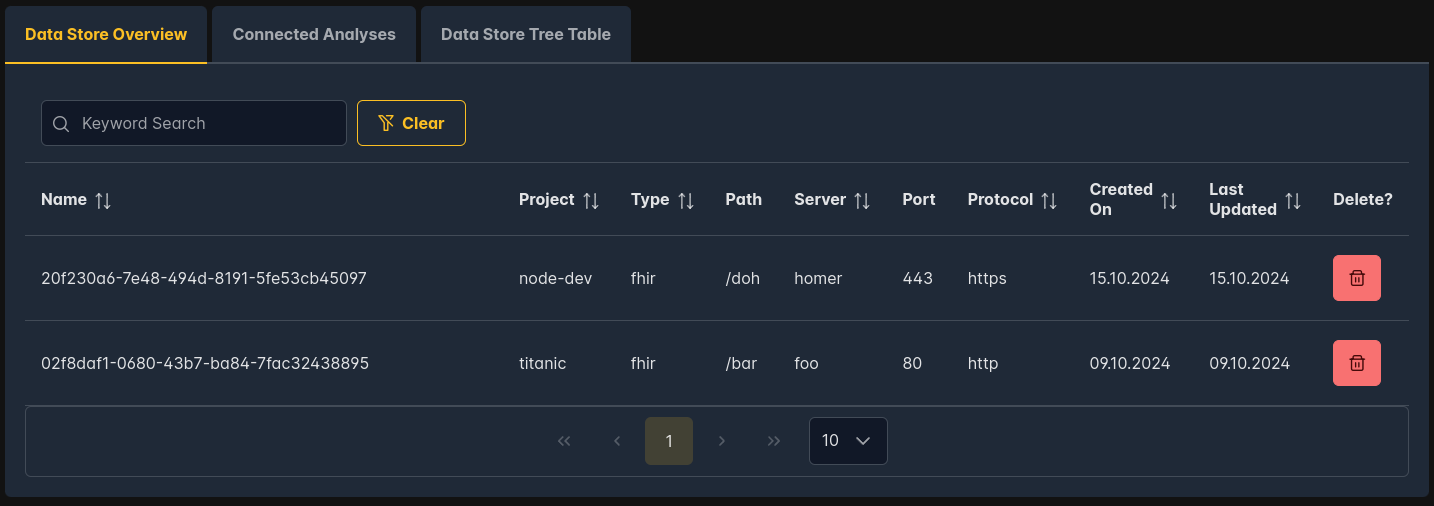
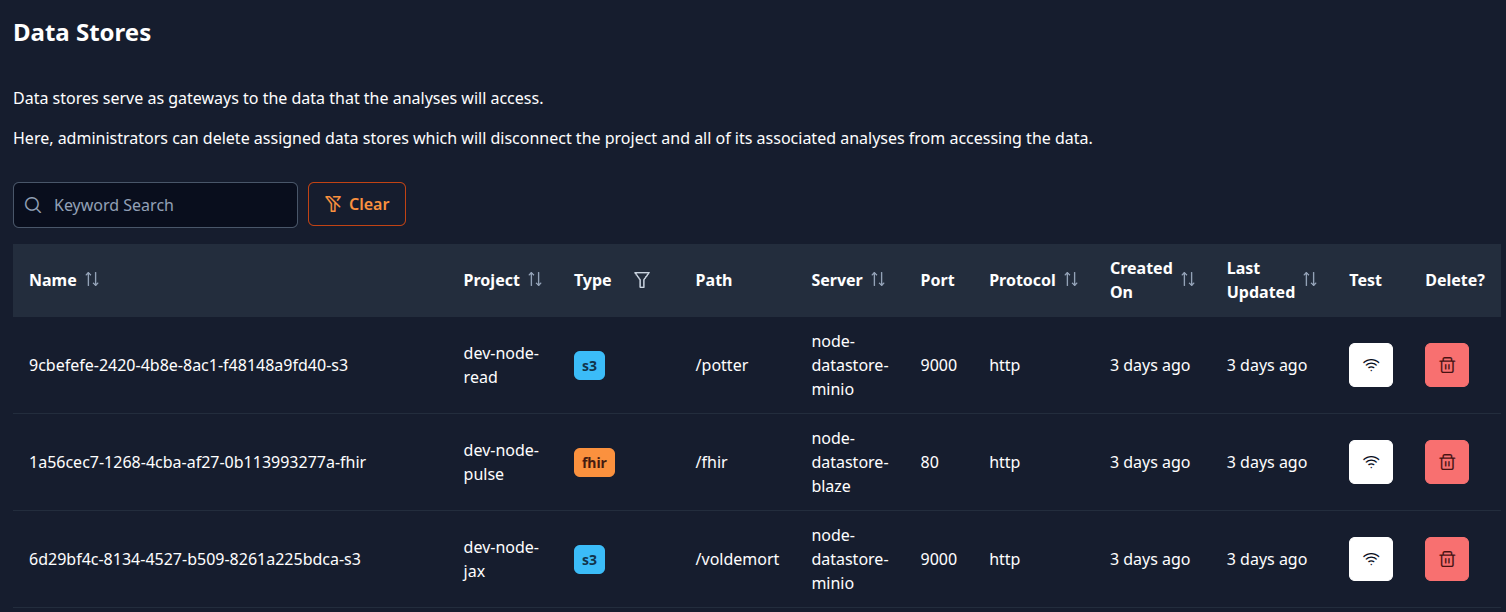
Merge pull request #98 from PrivateAIM/private-buckets
Private data store buckets

Pull request: Private data store buckets
<!-- This is an auto-generated comment: release notes by coderabbit.ai -->

## Summary by CodeRabbit

* **Documentation**
  * Updated admin guides for analysis execution, review, and data store management with improved terminology and clarity.
  * Revised bucket setup documentation to use credential-based private access instead of public bucket access.
  * Updated data store configuration field names from "Server/Data Path" to "Hostname/Bucket Name/Access Key/Secret Key."
  * Changed data store creation UI feedback color scheme (blue to green for success).
  * Corrected grammatical inconsistencies throughout user and deployment guides.

<!-- end of auto-generated comment: release notes by coderabbit.ai -->

diff --git a/src/guide/admin/bucket-setup-for-data-store.md b/src/guide/admin/bucket-setup-for-data-store.md
@@ -1,44 +1,123 @@
-# Bucket Setup for Data Store 
+# Bucket Setup for Data Store
 
-Before an analysis can be executed in FLAME, the required data must be made accessible through a configured data store. 
-In this context, a bucket refers to a storage location—such as an S3 or MinIO bucket—that contains the dataset to be analyzed.
-Creating a bucket is the first step in making data available to FLAME. 
-The bucket will later be referenced by a data store configuration, which connects the FLAME project to the actual data. 
+Before an analysis can be executed in FLAME, the required data must be made accessible through a configured data store.
+In this context, a bucket refers to a storage location—such as an S3 or MinIO bucket—that contains the dataset to be
+analyzed.
+Creating a bucket is the first step in making data available to FLAME.
+The bucket will later be referenced by a data store configuration, which connects the FLAME project to the actual data.
+
+The examples shown below use the included MinIO object store, but these steps can be applied to other S3 stores.
+
+::: info FLAME Node <0.0.10
+As of flame-node v0.0.10, private buckets are supported and are set as the default. If you have flame-node <0.0.10 
+deployed, consider upgrading to the latest version, otherwise, only S3 buckets set to "Public" will work and any 
+instructions on this page mentioning "keys" are not applicable.
+:::
 
 ## Creating a Bucket
 
-To create a new bucket, go to the "Buckets" tab in the Administrator Area on the left side of the page and click "Create Bucket".
-Give your bucket a name following the bucket naming rules, optionally select additional features, and click "Create Bucket" in the lower-right corner under the Features section.
+To create a new bucket, go to the "Buckets" tab in the Administrator Area on the left side of the page and click "Create
+Bucket".
+Give your bucket a name following the bucket naming rules, optionally select additional features, and click "Create
+Bucket" in the lower-right corner under the Features section.
 
 [![Data Store Creator](/images/minio_images/bucket_create.png)](/images/minio_images/bucket_create.png)
 
-To enable FLAME Nodes to access the data during development, the access policy of the newly created bucket must temporarily be set to "Public" in the summary tab. This setting is only required during the development phase and should be adjusted accordingly in production environments.
+### Generating Access and Secret Keys
+
+By default, S3 buckets are set to "Private", and accessing the data they contain requires the use of an **access key**
+and **secret key**. These keys are also required when creating a data store in the Node UI for this bucket. In MinIO,
+administrators and data stewards can generate a key pair by following these steps:
+
+1. Navigate to the "Access Keys" tab in the Administrator Area on the left side of the page
+2. Click the "Create access key" button in the top right corner of the page
+3. Enter any desired metadata including a name and expiration date for the keys
+    * It is recommended you enable the "Restrict beyond user policy" toggle and further limit the access key
+      permissions. More details can be found in [Modifying Access Key Permissions](#modifying-access-key-permissions)
+4. Click the "Create" button at the bottom
+
+::: warning Save the Keys!
+The secret key is **only** accessible during creation so it is important you record both keys now as you will need
+them when creating a data store
+:::
+
+[![MinIO Access Key Generation](/images/minio_images/access_key_creation.png)](/images/minio_images/access_key_creation.png)
+
+#### Modifying Access Key Permissions
+
+Access keys have the same policies as the user who created them by default, however, it is advisable to limit the
+permissions of the access keys used for data store creation. FLAME analyses only require the following permissions:
+
+* Bucket
+    * `s3:GetBucketLocation`
+    * `s3:ListBucket`
+* Data
+    * `s3:GetObject`
+
+Thus, administrators and data stewards can use the following custom **Access Key Policy** (replacing `<bucket name>`
+with the name of the appropriate bucket) for additional security:
+
+```json
+{
+    "Version": "2012-10-17",
+    "Statement": [
+        {
+            "Effect": "Allow",
+            "Action": [
+                "s3:GetBucketLocation",
+                "s3:ListBucket"
+            ],
+            "Resource": [
+                "arn:aws:s3:::<bucket name>"
+            ]
+        },
+        {
+            "Effect": "Allow",
+            "Action": [
+                "s3:GetObject"
+            ],
+            "Resource": [
+                "arn:aws:s3:::<bucket name>/*"
+            ]
+        }
+    ]
+}
+```
+
+This policy can be applied either during access key creation or afterward by editing the access key settings.
 
 ### Uploading Data into a Bucket
 
-To upload files or a directory into a bucket, navigate to "Object Browser" in the User Area and select the desired bucket.
-Click the "Upload" button in the top-right corner and choose either "Upload File" or "Upload Folder". You can then select a file or folder from your local computer to upload.
+To upload files or a directory into a bucket, navigate to "Object Browser" in the User Area and select the desired
+bucket.
+Click the "Upload" button in the top-right corner and choose either "Upload File" or "Upload Folder". You can then
+select a file or folder from your local computer to upload.
 
 [![Data Store Creator](/images/minio_images/bucket_upload.png)](/images/minio_images/bucket_upload.png)
 
-If the upload starts successfully, a "Downloads/Uploads" tab will appear in the top-right corner, displaying the upload progress as a percentage.
+If the upload starts successfully, a "Downloads/Uploads" tab will appear in the top-right corner, displaying the upload
+progress as a percentage.
 
 ### Deleting a Bucket
 
-A bucket can only be deleted after all its contents have been removed. To do this, go to the "Buckets" tab in the Administrator Area, select the bucket you want to delete, and then click the "Delete Bucket" button in the top-right corner.
+A bucket can only be deleted after all its contents have been removed. To do this, go to the "Buckets" tab in the
+Administrator Area, select the bucket you want to delete, and then click the "Delete Bucket" button in the top-right
+corner.
 
-## Integrate a Bucket in the Node 
+## Integrate a Bucket in the Node
 
-To make data from a bucket available for analysis within FLAME, a corresponding data store must be created for the project that intends to use the data.
+To make data from a bucket available for analysis within FLAME, a corresponding data store must be created for the
+project that intends to use the data.
 
-This process is explained in detail in the [Creating a Data Store](/guide/admin/data-store-management#creating-a-data-store) section. When configuring a data store for a MinIO or S3 bucket, the following parameters must be provided:
+This process is explained in detail in
+the [Creating a Data Store](/guide/admin/data-store-management#creating-a-data-store) section. When configuring a data
+store for a MinIO or S3 bucket, the following parameters must be provided:
 
 [![Data Store Creator](/images/minio_images/bucket_node.png)](/images/minio_images/bucket_node.png)
 
-* **Server:**  `node-datastore-minio`
-
-* **Data Path:** `/` followed by the bucket name (e.g., `/hello-world`)
-
 * **Data Store Type:** `S3`
-
+* **Hostname:**  `node-datastore-minio`
+* **Bucket Name:** `<bucket name>`
+* **Access Key:** Generated access key for the listed, private S3 bucket
+* **Secret Key:** Generated secret key for the listed, private S3 bucket
 * **Port:** `9000`

diff --git a/src/guide/admin/data-store-management.md b/src/guide/admin/data-store-management.md
@@ -1,62 +1,69 @@
 # Data Store Management
 
-Before an analysis can be run, its associated project must be allowed to access the required data at the institution. 
-To achieve this, administrators can create **data stores**. These are the configuration settings that map individual 
-projects to the directories containing the requested data on the organization's servers.
+Before an analysis can be run, its associated project must be allowed to access the required data at the institution.
+To achieve this, either an administrator or data steward needs to create **data stores**.
+These are the configuration settings that map individual projects to the directories containing the requested data
+on the organization's servers.
 
 ## Creating a Data Store
-Navigate to the Data Store Creation tool by clicking on "Data Stores" -> "Create" in the menu bar at the top of the 
+
+Navigate to the Data Store Creation tool by clicking on "Data Stores" -> "Create" in the menu bar at the top of the
 page. You should see a partially filled out table:
 
 [![Data Store Creator](/images/node_ui_images/data_store_creator.png)](/images/node_ui_images/data_store_creator.png)
 
-Simply fill out the required information in the table and click "Submit" under the table. If everything worked 
-correctly, a blue box will appear in the top right of the page indicating a data store was successfully created. If 
-not, then please verify the provided values in tables or contact support for help.
+Simply fill out the required information in the table and click "Submit" under the table. If everything worked
+correctly, a green box will appear in the top right of the page indicating a data store was successfully created. If
+not, a red box will appear with a suggestion as to what may be wrong. If this occurs, please verify the provided
+values in the table or contact support for help.
+
+::: tip Private S3 Buckets
+For more information on how to generate the required keys for private S3 buckets, visit
+[Bucket Setup for Data Store](./bucket-setup-for-data-store.md)
+:::
 
 A description of the fields in the table can be found below.
 
 ### Field Descriptions
-| **Field**       | **Description**                                                                                                                                                             |
-|-----------------|-----------------------------------------------------------------------------------------------------------------------------------------------------------------------------|
-| Project         | Select from the currently approved list of projects for your node                                                                                                           |
-| Data Store      | This field is automatically populated using the UUID of the selected project. This identifier is used as the name of the data store when it is created in the node software |
-| Server          | Name of the server on which the data is located                                                                                                                             |
-| Data Path       | The absolute directory path where the requested data is located                                                                                                             |
-| Data Store Type | Type of repository in which the data is stored. Currrently, only FHIR and S3 are supported                                                                                  |
-| Port            | Connection endpoint for accessing the server. Use 80 for HTTP and 443 for HTTPS. If a different protocol is used, please verify which port is accessible                    |
-| Protocol        | Protocol used for transferring files                                                                                                                                        |
-| Allowed Methods | Allowed methods for interacting with the data. Unless needed, this should be restricted to only `GET`                                                                         
+
+| **Field**               | **Description**                                                                                                                                                             |
+|-------------------------|-----------------------------------------------------------------------------------------------------------------------------------------------------------------------------|
+| Project                 | Select from the currently approved list of projects for your node                                                                                                           |
+| Data Store              | This field is automatically populated using the UUID of the selected project. This identifier is used as the name of the data store when it is created in the node software |
+| Data Store Type         | Type of repository in which the data is stored. Currently, only FHIR and S3 are supported                                                                                   |
+| Data Path (FHIR only)   | The absolute directory path where the requested data is located                                                                                                             |
+| Bucket Name (S3 only)   | The name of the S3 bucket in which the data is located                                                                                                                      |
+| Bucket Access (S3 only) | Whether the S3 bucket is "Private" or "Public". It is highly recommended to keep all S3 buckets set to private                                                              |
+| Access Key (S3 only)    | Generated access key used for accessing the listed, private S3 bucket                                                                                                       |
+| Secret Key (S3 only)    | Generated secret key used for accessing the listed, private S3 bucket                                                                                                       |
+| Hostname                | Name of the server on which the data is located                                                                                                                             |
+| Port                    | Connection endpoint for accessing the server. Use 80 for HTTP and 443 for HTTPS. If a different protocol is used, please verify which port is accessible                    |
+| Protocol                | Protocol used for transferring files                                                                                                                                        |
 
 ## Managing Data Access
-If a project is no longer approved, valid, or has been terminated, then the associated data stores should be removed. 
-The Node UI provides an interface for both disconnecting individual analyzes from accessing the requested data and 
+
+If a project is no longer approved, valid, or has been terminated, then the associated data stores should be removed.
+The Node UI provides an interface for both disconnecting individual analyses from accessing the requested data and
 permanently deleting data stores.
 
 To manage previously created data stores as well as analysis data access, navigate to the Data Store Management page by
-clicking on "Data Stores" -> "Manage" in the menu bar at the top of the Node UI. Here, 3 tabs will be visible: 
-[Data Store Overview](#managing-a-data-store), [Analysis Overview](#disconnecting-an-analysis), and Data Store Tree 
-Table. Each of these tabs provide a tabular description of the current data stores, analyzes with data access, and an 
-interactive overview of how the data stores, projects, and analyzes of connected, respectively.
+clicking on "Data Stores" -> "Manage" in the menu bar at the top of the Node UI to access an overview table of the
+current data stores (see [Field Descriptions](#field-descriptions) for descriptions of the columns).
 
-### Managing a Data Store
-The "Data Store Overview" tab shows a table listing the previously created data stores. The columns describe the same fields used during 
-creation (see [Field Descriptions](#field-descriptions)).
+Each listed data store in this table also has a button for testing the connection to the mapped server in the "Test"
+column. If a user reports that they are unable to access the requested data, you can use this button to check whether
+the connection is still valid. If it is no longer valid, for example because a security setting or port was changed,
+the data store should be deleted and recreated.
 
 [![Data Store Manager](/images/node_ui_images/datastore_manager.png)](/images/node_ui_images/datastore_manager.png)
 
-#### Deleting a Data Store
-The final column has a button for deleting the data store in that row. Simply click the button and confirm that you 
-want to delete the data store to remove any reference of it.
+### Deleting a Data Store
 
-::: warning Stop the Analyzes
-Deleting a data store also disconnects all analyzes for the associated project from the data. Be sure the analyzes 
+The final column has a button for deleting the data store in that row. Simply click the button and confirm that you
+want to delete the data store, thereby removing all access to the associated data.
+
+::: warning Stopping the Analyses
+Deleting a data store also immediately disconnects all analyses and projects from the data. Be sure the analyses
 have either all run to completion or the users have been notified.
 :::
 
-### Disconnecting an Analysis
-Though stopped and deleted analysis containers automatically delete their links to the needed data stores, sometimes 
-errors occur during this process and the analysis link needs to be manually deleted. Similar to how a data store is 
-deleted, the admin must simply navigate to the "Connected Analyses" tab and click on the delete button in the last 
-column of the analysis they wish to disconnect from data access. A notification of a successful disconnection will 
-appear in the top right of the screen after confirmation.

diff --git a/src/guide/admin/analysis-review.md b/src/guide/admin/analysis-review.md
@@ -1,19 +1,18 @@
 # Analysis Review
-As a node administrator, you have a crucial role in analysis: If your node was part of an approved project, the
-analyst who set it up can create analyzes with your node. Before a valid analysis is built, it requires approval.
+As a node administrator, you have a crucial role in analysis execution: If your node was part of an approved project, the
+analyst who set it up can create analyses with your node. Before a valid analysis is built, it requires approval.
 Here, you may review the analysis code and see whether your provided node data will be used according to the study
-protocol. If it is, approve the analyzes. If it is not, you may reject it, effectively blocking its execution on
-your site. If you do so, we encourage you to inform the data analyst of the reason, so they can revise it. After approval
+protocol. If it adheres to the protocol, then approval of the analysis is permitted, otherwise, you may reject it, effectively blocking its execution on your site. If you do so, we encourage you to inform the data analyst of the reason, so they can revise it. After approval
 or rejection of each site, the analysis is built.
 
 To review analysis, follow these steps:
 1. Within the home area (top left), you need to select **Analyses** in the left navigation, and then the Option
    **Incoming** to its right.
-2. Here, you can view all approved, rejected, as well as analyzes awaiting either (Optional: Use the search bar at the
+2. Here, you can view all approved, rejected, as well as analyses awaiting either (Optional: Use the search bar at the
    top).
    [![image](/images/ui_images/hub_analysis_review.png)](/images/ui_images/hub_analysis_review.png)
 3. **Review** incoming analysis scripts by clicking the black download button on the right of the request.
-4. **Approve** incoming analyzes by clicking the gray triple-bar button on the right of the anlaysis and then clicking the
+4. **Approve** incoming analyses by clicking the gray triple-bar button on the right of the anlaysis and then clicking the
    green approve button in the small popup.
 5. **Reject** incoming analysis by clicking the gray triple-bar button on the right of the analysis and then clicking the
    red reject button in the small popup.

diff --git a/src/guide/admin/analysis-execution.md b/src/guide/admin/analysis-execution.md
@@ -1,13 +1,13 @@
 # Analysis Execution
 
-One of the primary functions of the Node UI is to allow admins to control the analyzes running on their node. This page 
+One of the primary functions of the Node UI is to allow admins to control the analyses running on their node. This page 
 describes the different features in the Node UI for managing and interacting with the analysis containers.
 
-To see the statuses of the approved analyzes for your node, click the "Analyses" button in the menu bar at the top of 
+To see the statuses of the approved analyses for your node, click the "Analyses" button in the menu bar at the top of 
 the Node UI after logging in.
 
 ## Table Overview
-The analysis table provides an overview of all the approved analyzes on your node as well as displays their current 
+The analysis table provides an overview of all the approved analyses on your node as well as displays their current 
 states in the "Run Status" column. The columns of the table have various options for sorting the entries 
 including being able to filter by certain categorical variables in addition to ordering by name or date. 
 
@@ -15,7 +15,7 @@ including being able to filter by certain categorical variables in addition to o
 Hovering your mouse cursor over a date will show the exact date and time
 :::
 
-The search bar above the table allows the admin to quickly search for specific analyzes using keywords or identifiers. 
+The search bar above the table allows the admin to quickly search for specific analyses using keywords or identifiers. 
 Additionally, to get the latest entries without refreshing the whole page, simply click the white "refresh" button 
 above the table on the right side of the page.
 
@@ -48,8 +48,6 @@ will automatically configure everything in the backend to enable the container t
 During an analysis run, a node admin may want to halt an analysis container manually. Once an analysis is started, the 
 yellow stop button will be enabled and can be used to prematurely stop the container. After stopping the run, the 
 green play button will change to indicate that the admin can rerun the analysis if they choose.
-
-Analyzes that have run to completion will enter this "stopped" state by default.
 
 ### Deleting an Analysis Run
 

diff --git a/src/guide/deployment/node-registration.md b/src/guide/deployment/node-registration.md
@@ -22,9 +22,9 @@ Fill in the necessary information for your organization:
 * **External Name**: Human-readable name for your node
 * **Registry**: The repository from which your node will pull the analysis images. You must select at least one by
   clicking on the "+" next to the name
-* **Type**: The type of node this will represent. A "default" node is one in which individual analyzes will run, and
-  an "aggregator" is one which performs the aggregation of the results for the analyzes
-* **Visibility**: Whether this node can be seen and selected as an option for projects and analyzes
+* **Type**: The type of node this will represent. A "default" node is one in which individual analyses will run, and
+  an "aggregator" is one which performs the aggregation of the results for the analyses
+* **Visibility**: Whether this node can be seen and selected as an option for projects and analyses
 
 The page should look similar to this when finished:
 

diff --git a/src/guide/admin/reviewing.md b/src/guide/admin/reviewing.md
@@ -1,6 +1,6 @@
 # Why is there a review?
-Each site must independently approve or reject projects and individual analyzes to fulfill the requirements of German
-hospitals. You can automatically approve proposals or analyzes if you have contracts or other trust delegations.
+Each site must independently approve or reject projects and individual analyses to fulfill the requirements of German
+hospitals. You can automatically approve proposals or analyses if you have contracts or other trust delegations.
 
 # What is there to review?
 Before accepting a proposal or a analysis, the requested data and the code contained in a analysis need to be reviewed. While

diff --git a/src/guide/user/analysis-coding.md b/src/guide/user/analysis-coding.md
@@ -118,7 +118,7 @@ if __name__ == "__main__":
       data = [{'Patient?_summary=count': 10}]
       ```
       ]
-      - ``aggregator_results``: Contains the output of the previous iteration's ``aggregation_method()`` (only used in multi-iterative analyzes). 
+      - ``aggregator_results``: Contains the output of the previous iteration's ``aggregation_method()`` (only used in multi-iterative analyses). 
       Can/should be used to compare results or calculate deltas from previous iterations. [*In Example*: ``aggregator_results=None``]
 - ``MyAggregator``:  Custom class created by the user for aggregation (has to inherit from ``StarAggregator`` and has to implement ``aggregation_method()`` and ``has_converged()``).
   - ``aggregation_method()``: Combines results submitted by the nodes. [*In Example*: Sums the nodes' respective patient counts.]
@@ -137,7 +137,7 @@ This script serves as a basic "Hello World" example for performing federated ana
 
 ### Utilizing Local Differential Privacy in ``StarModel``
 ::: warning Info
-In its current state, Local Differential Privacy is only supported for analyzes that return results with a single numeric value.
+In its current state, Local Differential Privacy is only supported for analyses that return results with a single numeric value.
 :::
 There currently exists an alternate version of ``StarModel`` implementing a simplified local differential privacy (LocalDP) to enhance privacy during analysis: ``StarLocalDPModel``.
 In order to utilize said version, simply replace the ``StarModel`` import and instantiation in the above example with ``StarLocalDPModel``. 

diff --git a/src/guide/user/fhir-query.md b/src/guide/user/fhir-query.md
@@ -12,7 +12,7 @@ data integration and exchange across different systems.
 
 ## Application in FLAME
 In the FLAME platform, FHIR queries enable users to extract specific data from the MII core dataset, leveraging the standardized structure
-to conduct analyzes across multiple nodes while maintaining data security and privacy. This is crucial for distributed learning and research
+to conduct analyses across multiple nodes while maintaining data security and privacy. This is crucial for distributed learning and research
 in healthcare, allowing for the aggregation of data without compromising sensitive information.
 
 ### Example FHIR Query
@@ -28,5 +28,5 @@ These queries search for patients born after specified dates who have a specific
 You can customize FHIR queries to fit the specific needs of your analysis. These queries can filter data based on various patient attributes,
 such as demographics, conditions, or encounters, allowing for flexible and targeted data retrieval across different healthcare datasets.
 
-This allows analysts to perform precise and relevant analyzes while ensuring the privacy of patient data by processing it
+This allows analysts to perform precise and relevant analyses while ensuring the privacy of patient data by processing it
 in a federated manner across multiple nodes.

diff --git a/src/guide/deployment/node-installation.md b/src/guide/deployment/node-installation.md
@@ -138,7 +138,7 @@ If you have no need for RBAC, it can be disabled by setting `roleClaimName` to a
 
 For better security, this software uses Keycloak for authenticating the various services and users that make up FLAME.
 Keycloak is installed along with the other services and is required for the creation and management of the individual
-analyzes. Using the keycloak console, the admin you can add additional users who can access the FLAME UI, but you may
+analyses. Using the keycloak console, the admin you can add additional users who can access the FLAME UI, but you may
 also use your own IDP for user authentication if you wish.
 
 To enable this, first you must create individual clients for both the Node UI and the Hub Adapter in your IDP.

diff --git a/src/guide/user/coding_examples/differential-privacy-mvp.md b/src/guide/user/coding_examples/differential-privacy-mvp.md
@@ -47,7 +47,7 @@ This script serves as an example for performing privacy-preserving federated ana
 
 ### Understanding Local Differential Privacy in `StarLocalDPModel`
 ::: warning Info
-In its current state, Local Differential Privacy is only supported for analyzes that return results with a single numeric value.
+In its current state, Local Differential Privacy is only supported for analyses that return results with a single numeric value.
 :::
 `StarLocalDPModel` is an enhanced version of `StarModel` that implements Local Differential Privacy (LocalDP) to strengthen privacy guarantees during distributed analysis. The key difference is the addition of calibrated noise to the final aggregated results before they are sent to the Hub.
 